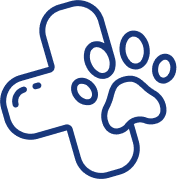
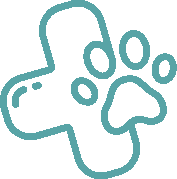
landingcolor

Changed region(s): [[0.0, 0.0, 1.0, 1.0]]

diff --git a/assets/css/main.css b/assets/css/main.css
@@ -1181,7 +1181,7 @@ textarea {
   color: var(--tg-theme-primary);
 }
 .section__title.white-title .sub-title {
-  color: var(--tg-color-gray-5);
+  color: #58a4a6;
 }
 .section__title.white-title .sub-title svg {
   color: var(--tg-color-light-blue);
@@ -3377,8 +3377,8 @@ textarea {
   display: flex;
   align-items: center;
   justify-content: center;
-  background: var(--tg-color-yellow-default);
-  border: 8px solid var(--tg-color-white-default);
+  background: #46a8a7;
+  border: 8px solid #46a8a7;
   -webkit-border-radius: 50%;
   -moz-border-radius: 50%;
   -o-border-radius: 50%;
@@ -3429,7 +3429,7 @@ textarea {
   -ms-transform: translate(-50%, -50%);
   -o-transform: translate(-50%, -50%);
   transform: translate(-50%, -50%);
-  color: var(--tg-color-dark);
+  color: #fff;
 }
 .healthy-pets .content .circle span {
   position: absolute;
@@ -8683,7 +8683,7 @@ textarea {
 .counter__item p {
   font-weight: 500;
   text-transform: capitalize;
-  color: var(--tg-color-gray-5);
+  color: #58a4a6;
   margin-bottom: 0;
 }
 .counter__item-two {

diff --git a/index.html b/index.html
@@ -277,7 +277,7 @@
                             <img src="assets/img/banner/banner_img01.png" alt="img" data-aos="fade-left" data-aos-delay="800">
                             <div class="healthy-pets" data-aos="zoom-in" data-aos-delay="1000">
                                 <div class="icon">
-                                    <img src="assets/img/icon/pet_icon01.svg" alt="" class="injectable">
+                                    <img src="assets/img/icon/pet_icon01.png" alt="" class="injectable">
                                 </div>
                                 <div class="content">
                                     <h6 class="circle rotateme">BETTER - HEALTHY - PETS - LOVE -</h6>
